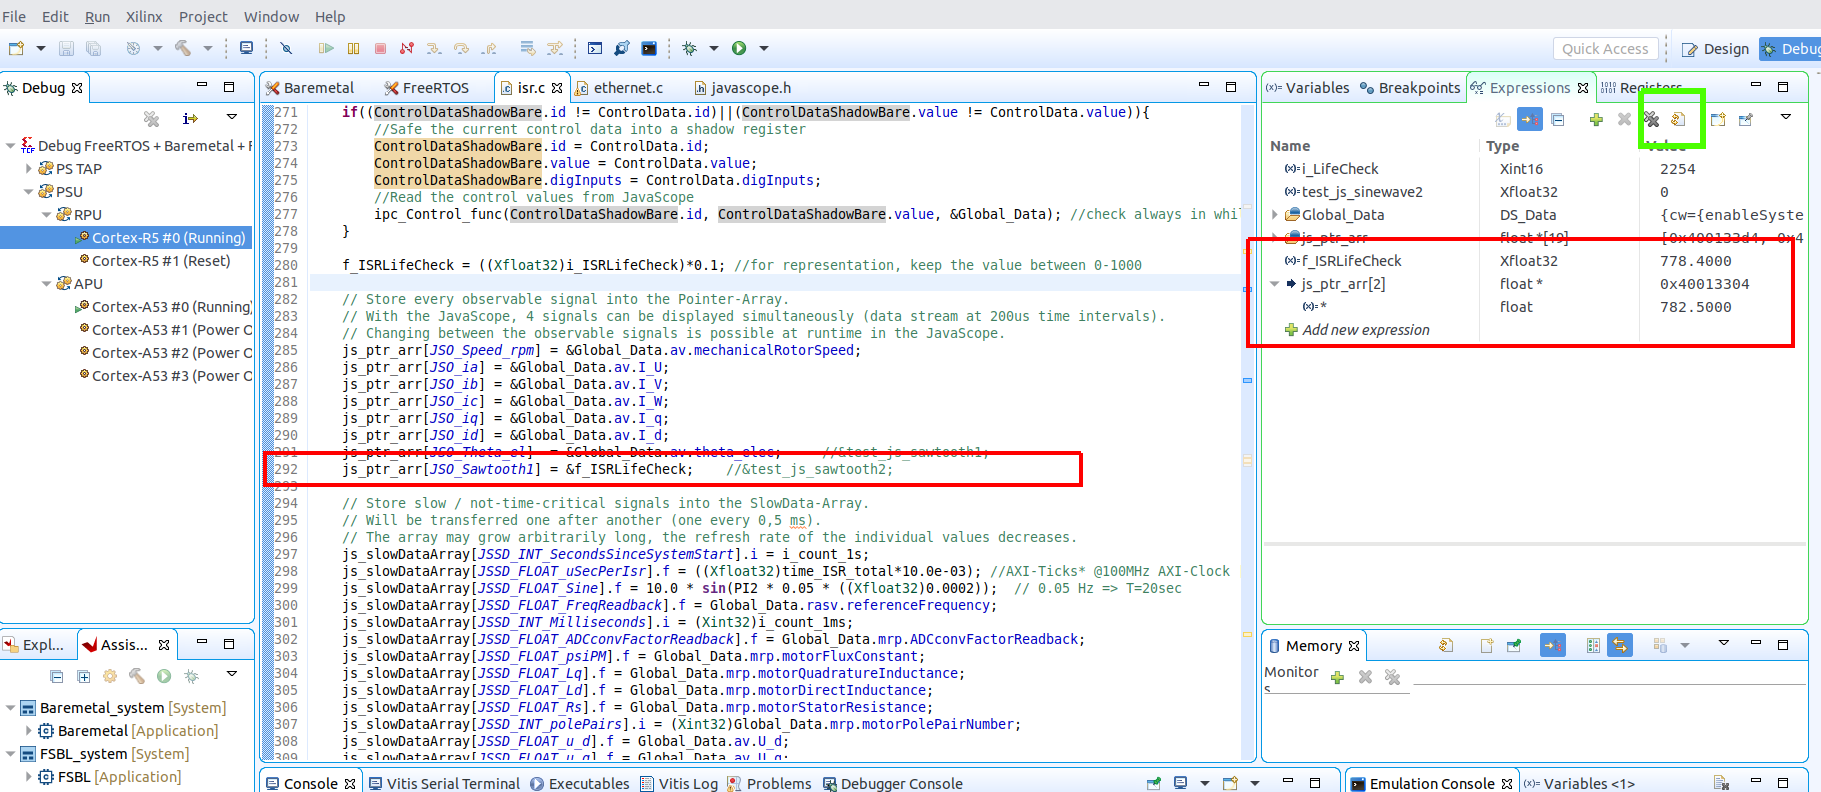
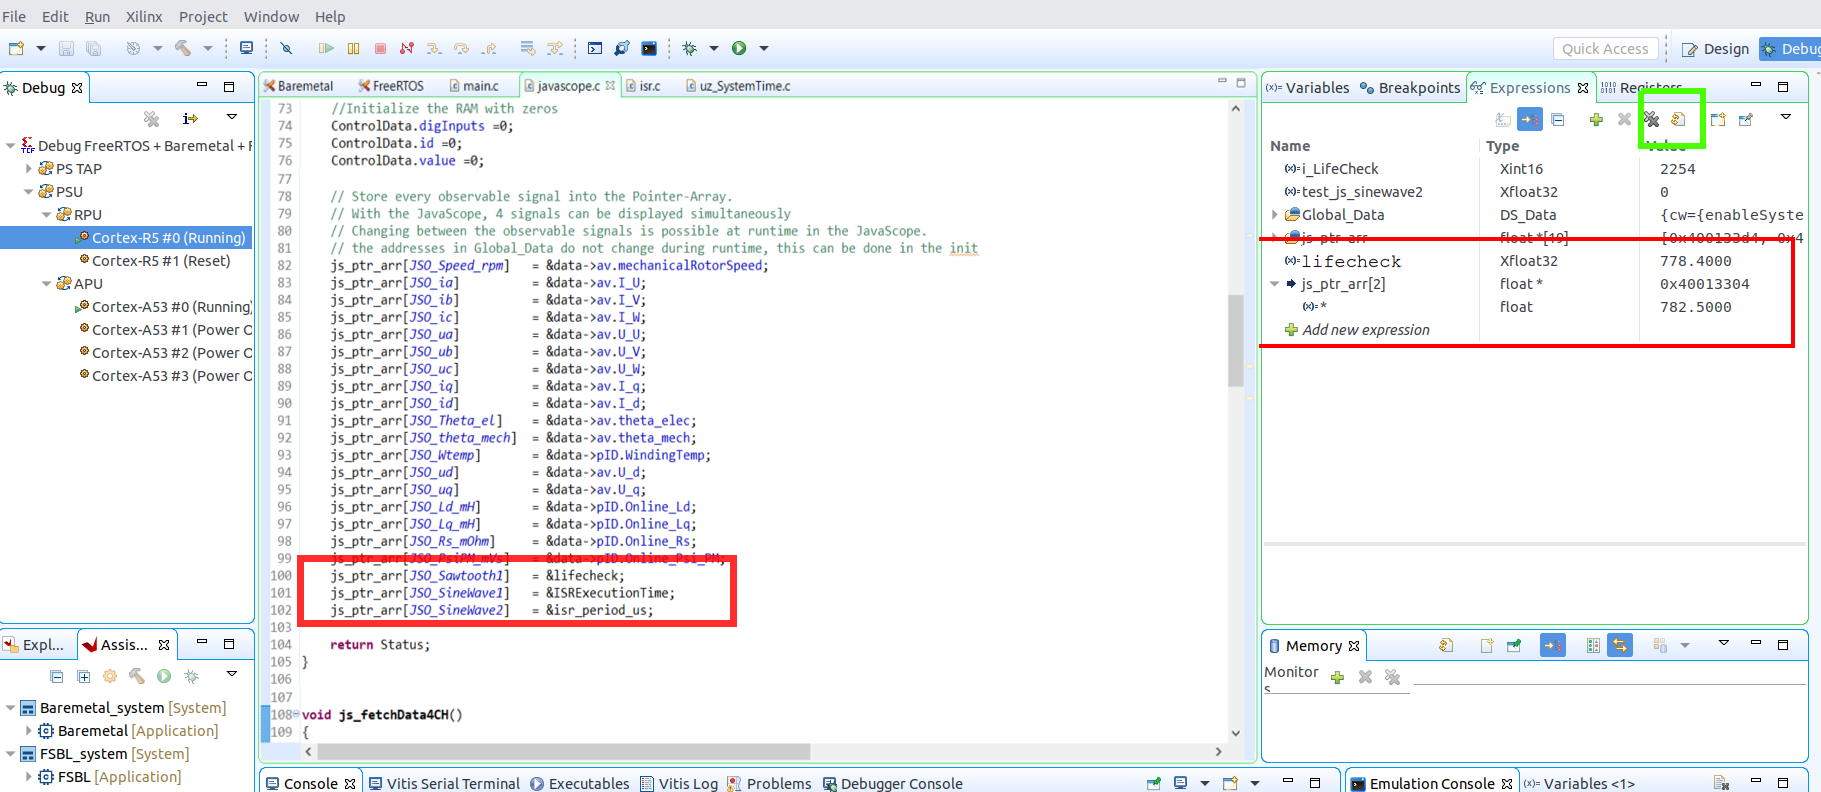
Adressed issue #107, #106, #105, #104

diff --git a/docs/source/general/howToDocs/howToDocs.rst b/docs/source/general/howToDocs/howToDocs.rst
@@ -84,6 +84,56 @@ Common functions
 Use the following examples for reference on how to write the docs.
 Basics:
 
+Structure
+^^^^^^^^^
+
+The structure of .rst is done via indentation with spaces. These indentations are a vital part of .rst and do **not** solely exist for visual alignment. 
+
+
+.. note:: Spaces are recommended for indentation, but tabs may also be used. For tabs, refer to :ref:`notepad`.
+
+**Example**
+
+.. code-block:: rst
+    
+    This is a top-level paragraph.
+
+        This paragraph belongs to a first-level block quote. *Indentation is 4 spaces form the previous.*
+
+            This paragraph belongs to a second-level block quote. *Indentation is 4 spaces form the first-level, or 8 form the top-level.*
+
+    Another top-level paragraph.
+
+        This paragraph belongs to a second-level block quote.
+
+    This paragraph belongs to a first-level block quote.  The
+    second-level block quote above is inside this first-level
+    block quote.
+    
+    * Level 1
+    
+        * Level 2
+   
+**This translates to the following:**
+
+This is a top-level paragraph.
+
+    This paragraph belongs to a first-level block quote. *Indentation is 4 spaces form the previous.* 
+
+        This paragraph belongs to a second-level block quote. *Indentation is 4 spaces form the first-level, or 8 form the top-level.*
+
+Another top-level paragraph.
+
+        This paragraph belongs to a second-level block quote.
+
+    This paragraph belongs to a first-level block quote.  The
+    second-level block quote above is inside this first-level
+    block quote.
+    
+* Level 1
+    
+    * Level 2
+   
 Code block
 ^^^^^^^^^^
 
@@ -181,5 +231,40 @@ All extensions are listed in ``ultrazohm_sw/docs/requirements.txt``.
  Enable autobuild and reload after changes for local development with ``make livehtml``
  
 `sphinx-issues <https://github.com/sloria/sphinx-issues>`_
- Link to issues and pull requests with ``:issue:`51``` and ``:pr:`5```, e.g., issue :issue:`5`
+ Link to issues and pull requests with ``:issue:`51``` and ``:pr:`5```, e.g., issue :issue:`5``
  
+Known Issues
+============
+
+.. _notepad:
+
+Compatibility issue with Notepad++ and .rst files 
+***************************************************
+
+
+* If u edit ``.rst`` files in the UltraZohm documentation an issue whilst using the tabulator key in Notepad++ can occur.
+
+  - If you align the command with the tabulator key in Notepad++, everything looks as its suppposed to.
+
+  .. image:: ./img/Notepad_tabulator.png
+
+  - However, if u open the saved file with the tabulator alignment in the normal windows editor, the following is visible.
+
+  .. image:: ./img/Editor_tabulator.png
+
+  - This wrong alignment via Notepad++ leads to the following error whilst executing **make html**. You can see the the missalignment highlighted in green.
+
+  .. image:: ./img/CMD_tabulator.png
+  
+  
+
+* To fix this issue you can do the following:
+
+  1. In Notepad++ go to **Settings** → **Settings** → **Language**
+  2. On the right sight, check the box **Replace by space** (Durch Leerzeichen ersetzen) and set the **Tab size** to i.e. 4. 
+     4 spaces is the standard indentation size for different levels. 
+
+  .. image:: ./img/Notepad_fix.png
+  
+Next issue
+**********

diff --git a/docs/source/getting_started/tutorials/first_steps/first_steps.rst b/docs/source/getting_started/tutorials/first_steps/first_steps.rst
@@ -37,14 +37,22 @@ The UltraZohm has to be connected to a PC by Ethernet and USB (JTAG-Programmer).
 Visualize the life check
 ************************
 
-The ISR's life check variable (f_ISRLifeCheck) is written to the Javascope struct ``js_ptr_arr`` to display it in the Javascope GUI. The following line achieves this.
+The ISR's life check variable (lifecheck) is currently written to the Javascope struct ``js_ptr_arr`` to display it in the Javascope GUI. The following line in ``javascope.c`` achieves this.
 
 .. code-block:: c
 
-    js_ptr_arr[JSO_Sawtooth1] = &f_ISRLifeCheck;
+    js_ptr_arr[JSO_SineWave1] = &lifecheck;
+    
+Next, change the variables around, so that the life check will be written to ``js_ptr_arr[JSO_Sawtooth1]`` instead.
+
+.. code-block:: c
+    
+    js_ptr_arr[JSO_Sawtooth1] 	= &lifecheck;
+    js_ptr_arr[JSO_SineWave1]   = &ISRExecutionTime;
+    js_ptr_arr[JSO_SineWave2]   = &isr_period_us;
 
 Next, program the UltraZohm and start the debug session (debug-icon).
-Start all PS-cores and add ``f_ISRLifeCheck`` to the expressions. Click on refresh (green rectangle in the picture below) to refresh the current values of the expressions. 
+Start all PS-cores and add ``lifecheck`` to the expressions. Click on refresh (green rectangle in the picture below) to refresh the current values of the expressions. 
 
 .. image:: ./img/1_after_build.png
 
@@ -56,11 +64,27 @@ Start the Javscope, connect it to the UltraZohm, click on ``Run/Stop`` to start 
 Visualize sine wave
 *******************
 
-The next step is to add a sine wave and display it on the Javascope. In the ``isr.c`` of the R5 already exists the variable ``test_js_sinewave1``, which we can use. Furthermore, a software counter ``i_count_1ms`` is available in the ``isr.c``. We add the following code:
+The next step is to add a sine wave and display it on the Javascope. In the ``javascope.c`` of the R5 the struct ``js_ptr_arr[JSO_SineWave1]`` already exists, which we can use. To program the sine wave we need a new variable ``test_js_sinewave1`` and a counter. Luckily the ``uz_SystemTime_GetUptimeInMs`` counter in the ``uz_SystemTime.c`` exists already. It counts up every 1 millisecond. 
+
+First, add to defines in the ``main.h``.
 
 .. code-block:: c
 
-   test_js_sinewave1=10.0 * sin( PI2 * 1.00 * (i_count_1ms*0.001) );
+    #define PI 3.141592653589
+    #define PI2 6.2832
+
+
+Then declare the variable ``test_js_sinewave1``.
+
+.. code-block:: c
+
+   float test_js_sinewave1=0.0;
+   
+Then add the following code:
+
+.. code-block:: c
+
+   test_js_sinewave1=10.0 * sin(PI2 * (uz_SystemTime_GetUptimeInMs()*0.001));
    js_ptr_arr[JSO_SineWave1]=&test_js_sinewave1;
 
 
@@ -68,3 +92,5 @@ Build the code, if there are problems with the math.h, refer to :ref:`math_h_pro
 Next, start a debug session, start the UltraZohm and the Javascope. You should see the SineWave if the channel ``SineWave1`` is selected.
 
 .. image:: ./img/7_sine_wave.png
+
+Finally, if everything worked accordingly, undo the changes made in this chapter. 

diff --git a/docs/source/getting_started/tutorials/vio_led_optical/vio_led.rst b/docs/source/getting_started/tutorials/vio_led_optical/vio_led.rst
@@ -36,3 +36,12 @@ VIO usage
 .. youtube:: jtIzec7ymQA
 
 .. image:: https://images2.imgbox.com/d3/5a/JaM3wGSv_o.gif
+
+Updated information
+*******************
+
+VIO IP-Core at `1:02 <https://youtu.be/jtIzec7ymQA?t=62>`_ has a different name now. Furthermore, the output ports are labled **D3_OUT[25:0]** instead of **Dig_Ch4[25:0]**.
+
+.. image:: ./img/Block_Design.png
+
+Furthermore, the selection for the **hw_vio** channel at `1:25 <https://youtu.be/jtIzec7ymQA?t=85>`_ changed aswell. It is now **hw_vio_6** instead of **hw_vio_5**.

diff --git a/docs/source/getting_started/tutorials/adc_loopback/adc_loopback.rst b/docs/source/getting_started/tutorials/adc_loopback/adc_loopback.rst
@@ -26,7 +26,7 @@ The following tutorial requires:
 - Complete UltraZohm Toolchain (Vivado, Vitis, ultrazohm_sw repository)
 - UltraZohm connected to your PC by USB (JTAG)
 - Digital voltage card in slot D1 (:ref:`digitalVoltage`)
-- Analog adapter card ADC :ref:`ipCore_LTC23` in slot A1
+- Analog adapter card ADC :ref:`Analog_LTC2311_16_v3` in slot A1
 - If the analog adapter card is used in A2 or A3, change the variables accordingly
 
 .. UltraZohm Setup

diff --git a/docs/source/getting_started/tutorials/encoder/encoder.rst b/docs/source/getting_started/tutorials/encoder/encoder.rst
@@ -33,3 +33,9 @@ Read out Encoder
 ****************
 
 .. youtube:: n5EbyrPFRE0
+
+Updated information
+*******************
+
+``js_ptr_arr[JSO_Theta_el] = &data->av.theta_elec`` and ``js_ptr_arr[JSO_theta_mech] = &data->av.theta_mech`` are now in the ``javascope.c`` instead of the ``isr.c``. The rest remains unchanged. 
+
